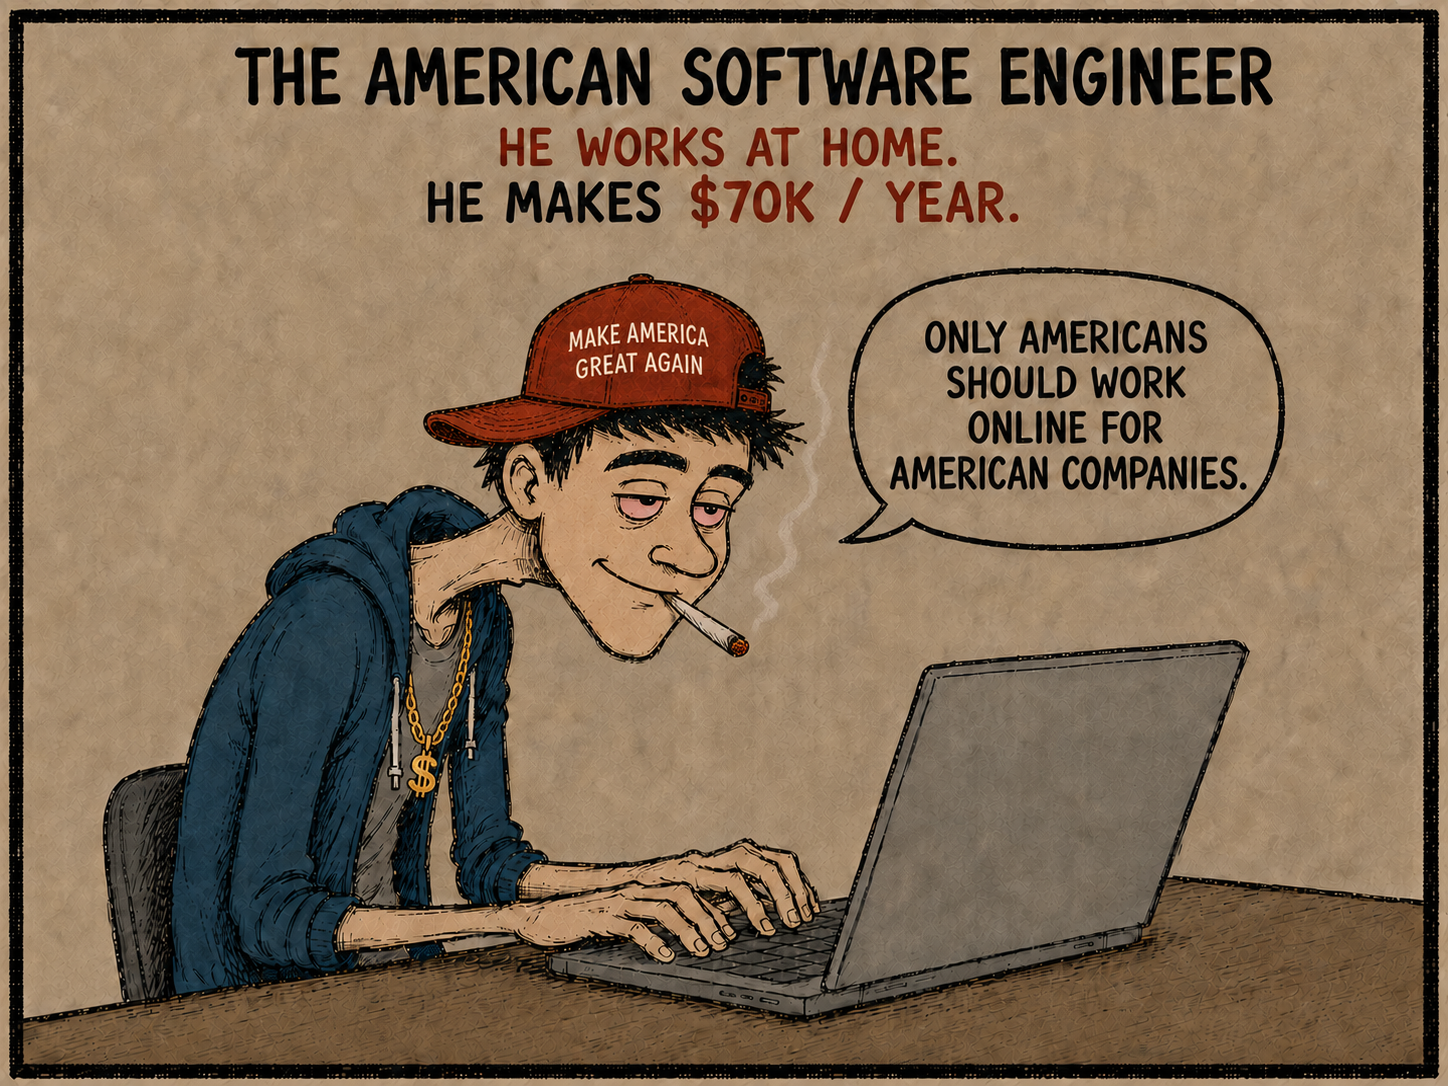
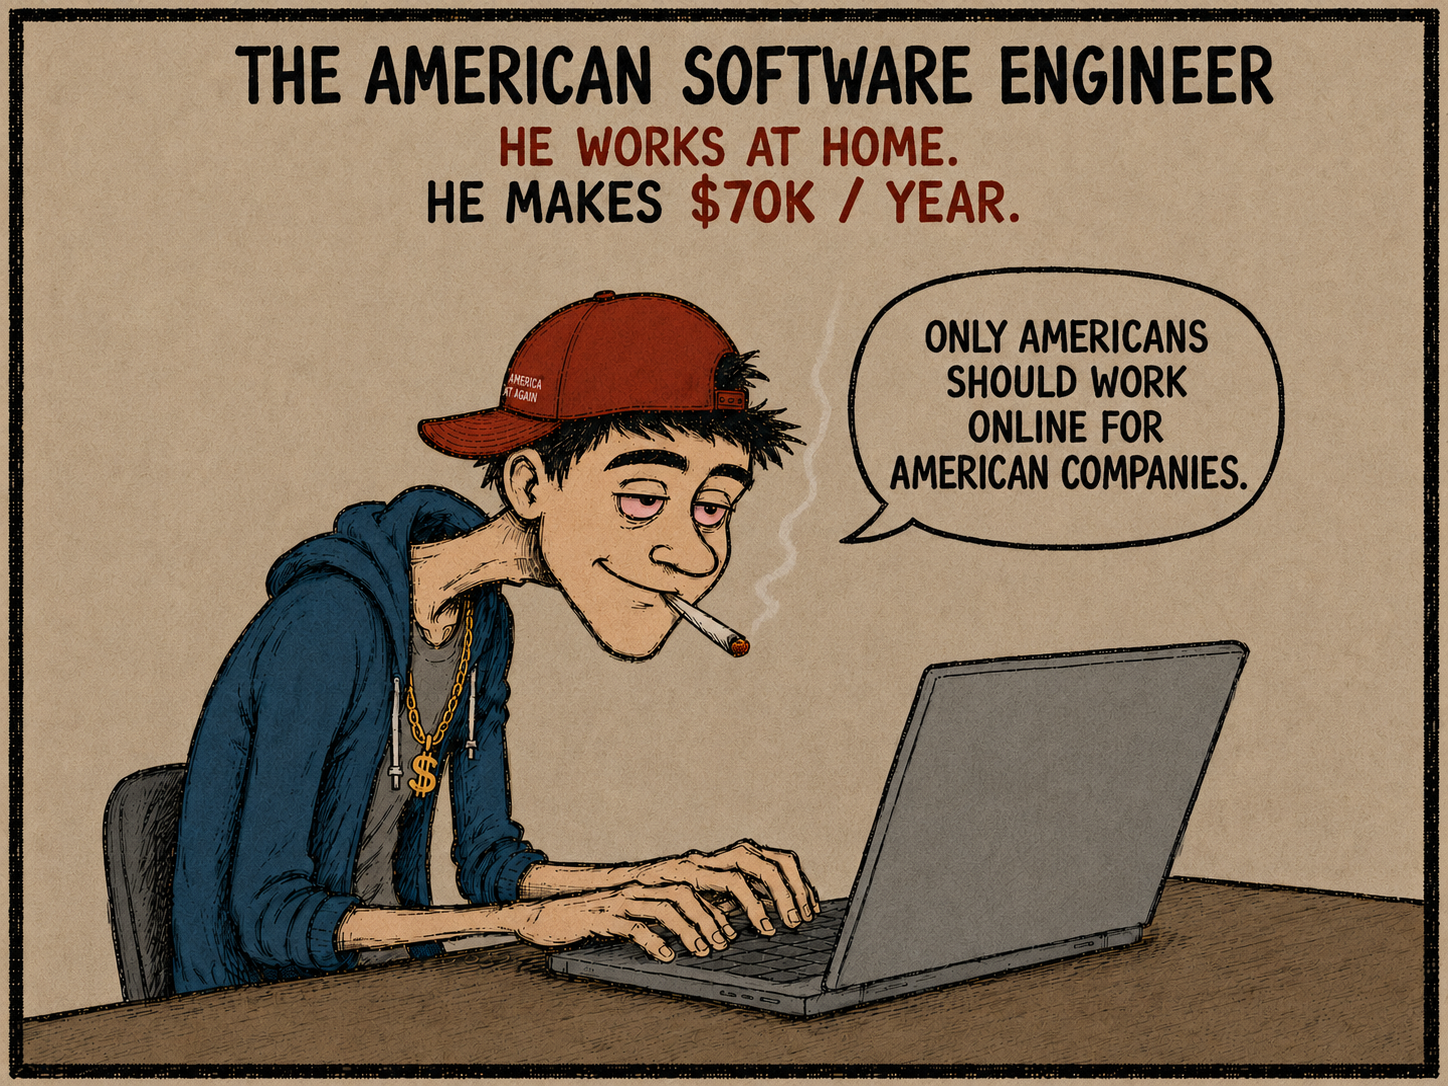
Update American comic artwork and title

diff --git a/comics/american-software-engineer/index.html b/comics/american-software-engineer/index.html
@@ -8,18 +8,18 @@
     <meta name="theme-color" content="#f5f2eb" />
     <meta property="og:type" content="article" />
     <meta property="og:site_name" content="Stealing Art Jobs" />
-    <meta property="og:title" content="American Software Engineer — Stealing Art Jobs" />
+    <meta property="og:title" content="American — Stealing Art Jobs" />
     <meta property="og:description" content="A political workplace comic about an American remote software engineer, nationalism, online employment, and American companies." />
-    <meta property="og:image" content="https://stealingartjobs.com/comics/american-software-engineer.png" />
+    <meta property="og:image" content="https://stealingartjobs.com/comics/american-software-engineer.png?v=2" />
     <meta property="og:url" content="https://stealingartjobs.com/comics/american-software-engineer/" />
     <link rel="canonical" href="https://stealingartjobs.com/comics/american-software-engineer/" />
-    <title>American Software Engineer — Stealing Art Jobs</title>
+    <title>American — Stealing Art Jobs</title>
     <link rel="preconnect" href="https://fonts.googleapis.com" />
     <link rel="preconnect" href="https://fonts.gstatic.com" crossorigin />
     <link href="https://fonts.googleapis.com/css2?family=DM+Mono:wght@400;500&family=Manrope:wght@500;600;700;800&display=swap" rel="stylesheet" />
     <link rel="stylesheet" href="/styles.css?v=13" />
     <script type="application/ld+json">{"@context":"https://schema.org","@type":"WebSite","name":"Stealing Art Jobs","url":"https://stealingartjobs.com/","description":"An independent webcomic about art, work, technology, and strange incentives."}</script>
-    <script type="application/ld+json">{"@context": "https://schema.org", "@type": "CreativeWork", "name": "American Software Engineer", "description": "A political workplace comic about an American remote software engineer, nationalism, online employment, and American companies.", "datePublished": "2026-08-27", "image": "https://stealingartjobs.com/comics/american-software-engineer.png", "url": "https://stealingartjobs.com/comics/american-software-engineer/", "isPartOf": {"@type": "WebSite", "name": "Stealing Art Jobs", "url": "https://stealingartjobs.com/"}}</script>
+    <script type="application/ld+json">{"@context": "https://schema.org", "@type": "CreativeWork", "name": "American", "description": "A political workplace comic about an American remote software engineer, nationalism, online employment, and American companies.", "datePublished": "2026-08-27", "image": "https://stealingartjobs.com/comics/american-software-engineer.png?v=2", "url": "https://stealingartjobs.com/comics/american-software-engineer/", "isPartOf": {"@type": "WebSite", "name": "Stealing Art Jobs", "url": "https://stealingartjobs.com/"}}</script>
   </head>
   <body>
     <header class="site-header">
@@ -54,7 +54,7 @@
           <li><a href="/comics/artist/" data-comic-index="3"><span>04</span><strong>Artist</strong><span>Uploaded August 20, 2026</span></a></li>
           <li><a href="/comics/automoderation/" data-comic-index="4"><span>05</span><strong>Moderators</strong><span>Uploaded August 23, 2026</span></a></li>
           <li><a href="/comics/executive/" data-comic-index="5"><span>06</span><strong>Executive</strong><span>Uploaded August 26, 2026</span></a></li>
-          <li><a href="/comics/american-software-engineer/" data-comic-index="6"><span>07</span><strong>American Software Engineer</strong><span>Uploaded August 27, 2026</span></a></li>
+          <li><a href="/comics/american-software-engineer/" data-comic-index="6"><span>07</span><strong>American</strong><span>Uploaded August 27, 2026</span></a></li>
         </ol>
       </div>
     </aside>
@@ -66,11 +66,11 @@
           <p class="date" id="comic-date">Uploaded August 27, 2026</p>
         </div>
 
-        <h1 id="comic-title">American Software Engineer</h1>
+        <h1 id="comic-title">American</h1>
 
         <figure class="comic-frame" id="comic-frame">
           <button class="comic-arrow comic-arrow-previous" id="comic-previous" type="button" aria-label="Previous comic"><span aria-hidden="true">&lt;</span></button>
-          <img id="comic-image" src="/comics/american-software-engineer.png" alt="An American software engineer wearing a Make America Great Again hat works from home on a laptop while declaring that only Americans should work online for American companies." />
+          <img id="comic-image" src="/comics/american-software-engineer.png?v=2" alt="An American software engineer wearing a Make America Great Again hat works from home on a laptop while declaring that only Americans should work online for American companies." />
           <button class="comic-arrow comic-arrow-next" id="comic-next" type="button" aria-label="Next comic" disabled><span aria-hidden="true">&gt;</span></button>
         </figure>
 

diff --git a/index.html b/index.html
@@ -10,7 +10,7 @@
     <meta property="og:site_name" content="Stealing Art Jobs" />
     <meta property="og:title" content="Stealing Art Jobs" />
     <meta property="og:description" content="An independent webcomic about art, work, technology, and strange incentives." />
-    <meta property="og:image" content="https://stealingartjobs.com/comics/american-software-engineer.png" />
+    <meta property="og:image" content="https://stealingartjobs.com/comics/american-software-engineer.png?v=2" />
     <meta property="og:url" content="https://stealingartjobs.com/" />
     <link rel="canonical" href="https://stealingartjobs.com/" />
     <title>Stealing Art Jobs — Independent Webcomic</title>
@@ -53,7 +53,7 @@
           <li><a href="/comics/artist/" data-comic-index="3"><span>04</span><strong>Artist</strong><span>Uploaded August 20, 2026</span></a></li>
           <li><a href="/comics/automoderation/" data-comic-index="4"><span>05</span><strong>Moderators</strong><span>Uploaded August 23, 2026</span></a></li>
           <li><a href="/comics/executive/" data-comic-index="5"><span>06</span><strong>Executive</strong><span>Uploaded August 26, 2026</span></a></li>
-          <li><a href="/comics/american-software-engineer/" data-comic-index="6"><span>07</span><strong>American Software Engineer</strong><span>Uploaded August 27, 2026</span></a></li>
+          <li><a href="/comics/american-software-engineer/" data-comic-index="6"><span>07</span><strong>American</strong><span>Uploaded August 27, 2026</span></a></li>
         </ol>
       </div>
     </aside>
@@ -65,11 +65,11 @@
           <p class="date" id="comic-date">Uploaded August 27, 2026</p>
         </div>
 
-        <h1 id="comic-title">American Software Engineer</h1>
+        <h1 id="comic-title">American</h1>
 
         <figure class="comic-frame" id="comic-frame">
           <button class="comic-arrow comic-arrow-previous" id="comic-previous" type="button" aria-label="Previous comic"><span aria-hidden="true">&lt;</span></button>
-          <img id="comic-image" src="/comics/american-software-engineer.png" alt="An American software engineer wearing a Make America Great Again hat works from home on a laptop while declaring that only Americans should work online for American companies." />
+          <img id="comic-image" src="/comics/american-software-engineer.png?v=2" alt="An American software engineer wearing a Make America Great Again hat works from home on a laptop while declaring that only Americans should work online for American companies." />
           <button class="comic-arrow comic-arrow-next" id="comic-next" type="button" aria-label="Next comic" disabled><span aria-hidden="true">&gt;</span></button>
         </figure>
 

diff --git a/comics/alcoholic/index.html b/comics/alcoholic/index.html
@@ -54,7 +54,7 @@
           <li><a href="/comics/artist/" data-comic-index="3"><span>04</span><strong>Artist</strong><span>Uploaded August 20, 2026</span></a></li>
           <li><a href="/comics/automoderation/" data-comic-index="4"><span>05</span><strong>Moderators</strong><span>Uploaded August 23, 2026</span></a></li>
           <li><a href="/comics/executive/" data-comic-index="5"><span>06</span><strong>Executive</strong><span>Uploaded August 26, 2026</span></a></li>
-          <li><a href="/comics/american-software-engineer/" data-comic-index="6"><span>07</span><strong>American Software Engineer</strong><span>Uploaded August 27, 2026</span></a></li>
+          <li><a href="/comics/american-software-engineer/" data-comic-index="6"><span>07</span><strong>American</strong><span>Uploaded August 27, 2026</span></a></li>
         </ol>
       </div>
     </aside>

diff --git a/comics/artist/index.html b/comics/artist/index.html
@@ -54,7 +54,7 @@
           <li><a href="/comics/artist/" data-comic-index="3"><span>04</span><strong>Artist</strong><span>Uploaded August 20, 2026</span></a></li>
           <li><a href="/comics/automoderation/" data-comic-index="4"><span>05</span><strong>Moderators</strong><span>Uploaded August 23, 2026</span></a></li>
           <li><a href="/comics/executive/" data-comic-index="5"><span>06</span><strong>Executive</strong><span>Uploaded August 26, 2026</span></a></li>
-          <li><a href="/comics/american-software-engineer/" data-comic-index="6"><span>07</span><strong>American Software Engineer</strong><span>Uploaded August 27, 2026</span></a></li>
+          <li><a href="/comics/american-software-engineer/" data-comic-index="6"><span>07</span><strong>American</strong><span>Uploaded August 27, 2026</span></a></li>
         </ol>
       </div>
     </aside>

diff --git a/comics/automoderation/index.html b/comics/automoderation/index.html
@@ -54,7 +54,7 @@
           <li><a href="/comics/artist/" data-comic-index="3"><span>04</span><strong>Artist</strong><span>Uploaded August 20, 2026</span></a></li>
           <li><a href="/comics/automoderation/" data-comic-index="4"><span>05</span><strong>Moderators</strong><span>Uploaded August 23, 2026</span></a></li>
           <li><a href="/comics/executive/" data-comic-index="5"><span>06</span><strong>Executive</strong><span>Uploaded August 26, 2026</span></a></li>
-          <li><a href="/comics/american-software-engineer/" data-comic-index="6"><span>07</span><strong>American Software Engineer</strong><span>Uploaded August 27, 2026</span></a></li>
+          <li><a href="/comics/american-software-engineer/" data-comic-index="6"><span>07</span><strong>American</strong><span>Uploaded August 27, 2026</span></a></li>
         </ol>
       </div>
     </aside>

diff --git a/comics/douchebag/index.html b/comics/douchebag/index.html
@@ -54,7 +54,7 @@
           <li><a href="/comics/artist/" data-comic-index="3"><span>04</span><strong>Artist</strong><span>Uploaded August 20, 2026</span></a></li>
           <li><a href="/comics/automoderation/" data-comic-index="4"><span>05</span><strong>Moderators</strong><span>Uploaded August 23, 2026</span></a></li>
           <li><a href="/comics/executive/" data-comic-index="5"><span>06</span><strong>Executive</strong><span>Uploaded August 26, 2026</span></a></li>
-          <li><a href="/comics/american-software-engineer/" data-comic-index="6"><span>07</span><strong>American Software Engineer</strong><span>Uploaded August 27, 2026</span></a></li>
+          <li><a href="/comics/american-software-engineer/" data-comic-index="6"><span>07</span><strong>American</strong><span>Uploaded August 27, 2026</span></a></li>
         </ol>
       </div>
     </aside>

diff --git a/comics/executive/index.html b/comics/executive/index.html
@@ -54,7 +54,7 @@
           <li><a href="/comics/artist/" data-comic-index="3"><span>04</span><strong>Artist</strong><span>Uploaded August 20, 2026</span></a></li>
           <li><a href="/comics/automoderation/" data-comic-index="4"><span>05</span><strong>Moderators</strong><span>Uploaded August 23, 2026</span></a></li>
           <li><a href="/comics/executive/" data-comic-index="5"><span>06</span><strong>Executive</strong><span>Uploaded August 26, 2026</span></a></li>
-          <li><a href="/comics/american-software-engineer/" data-comic-index="6"><span>07</span><strong>American Software Engineer</strong><span>Uploaded August 27, 2026</span></a></li>
+          <li><a href="/comics/american-software-engineer/" data-comic-index="6"><span>07</span><strong>American</strong><span>Uploaded August 27, 2026</span></a></li>
         </ol>
       </div>
     </aside>

diff --git a/comics/fool/index.html b/comics/fool/index.html
@@ -54,7 +54,7 @@
           <li><a href="/comics/artist/" data-comic-index="3"><span>04</span><strong>Artist</strong><span>Uploaded August 20, 2026</span></a></li>
           <li><a href="/comics/automoderation/" data-comic-index="4"><span>05</span><strong>Moderators</strong><span>Uploaded August 23, 2026</span></a></li>
           <li><a href="/comics/executive/" data-comic-index="5"><span>06</span><strong>Executive</strong><span>Uploaded August 26, 2026</span></a></li>
-          <li><a href="/comics/american-software-engineer/" data-comic-index="6"><span>07</span><strong>American Software Engineer</strong><span>Uploaded August 27, 2026</span></a></li>
+          <li><a href="/comics/american-software-engineer/" data-comic-index="6"><span>07</span><strong>American</strong><span>Uploaded August 27, 2026</span></a></li>
         </ol>
       </div>
     </aside>
